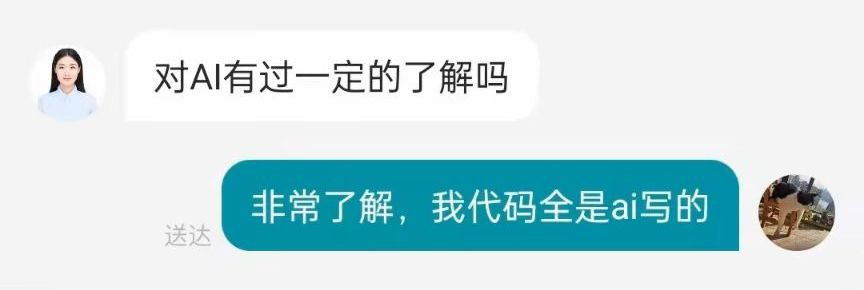
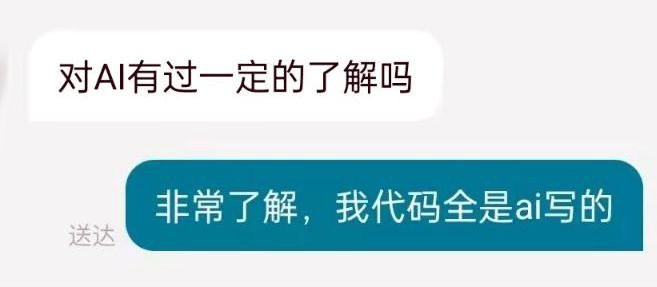
logout info get finished

Changed region(s): [[0.0913, 0.5296, 1.0, 0.892], [0.0304, 0.1672, 0.6393, 0.4181]]

diff --git a/src/menu.c b/src/menu.c
@@ -1,14 +1,13 @@
-#include <stdio.h>
-#include <stdlib.h>
-#include <string.h>
 #include"../head/card_service.h"
 #include"../head/admin.h"
+#include"../head/billing_service.h"
 // extern Card acard[100];
 // extern int card_count;
 extern Card* head;
 extern Card* lastnode;
 extern Admin three_admins[3];
 extern int admin_count;
+extern Loif* head_loif;
 void menu()
 {
     // 打印卡片信息
@@ -289,9 +288,8 @@ void menu()
             printf("使用时间为：%.2lf分钟\n", usage_time / 60.0);
             printf("消费金额为：%.2lf元\n", usage_amount);
             // 如果余额不足，提示用户充值
-            if (logout_index->balance < 0) 
+            while (logout_index->balance < 0) 
             {
-                printf("亲,我们这边一分钟10元呢,不是fuger记得注意时间\n");
                 printf("余额不足，请充值！\n");
                 printf("请输入充值金额<RMB>：");
                 double recharge_else;
@@ -300,18 +298,20 @@ void menu()
                 printf("充值成功！");
                 printf("当前余额为：%.2lf\n", logout_index->balance);
             }
-            while(logout_index->balance < 0)
-            {
-                printf("余额还是不够呢,要不要试试我们的贷款功能？\n");
-                printf("请输入贷款金额<RMB>：");
-                double recharge_else;
-                scanf("%lf", &recharge_else);
-                logout_index->balance += recharge_else;
-                printf("贷款成功！");
-                printf("当前余额为：%.2lf\n", logout_index->balance);
-                printf("当前利息为：1.6%%");
-            }
-            free(login_time); // 释放内存
+            // 存档下机信息
+            Loif logout_info;
+            strcpy(logout_info.cardname, logout_index->aname);
+            strcpy(logout_info.start_time, login_time);
+            logout_info.last_time_t = now_logout;
+            logout_info.amount = usage_amount;
+            logout_info.balance = logout_index->balance;
+            strftime(logout_info.last_time, sizeof(logout_info.last_time), "%Y-%m-%d %H:%M:%S", tm_info_logout);
+            // 将下机信息写入文件
+            write_logout_info("user_data/logout.txt", &logout_info);
+            // 将下机信息添加到链表
+            add_info_to_loif(head_loif, &logout_info);
+            // 释放内存
+            free(login_time); 
             printf("请在前台领取消费明细单！\n");   
             printf("下机成功\n");
             break;
@@ -408,12 +408,57 @@ void menu()
             }
             printf("-------------查询统计------------\n");
             printf("请输入0查询消费记录，输入1统计总营业额：");
-            int stat_choice;
+            int stat_choice=-1;
             scanf("%d", &stat_choice);
-            if (stat_choice)
-                printf("总营业额为：%lf\n", 1000.00);
+            if (stat_choice==1)
+            {
+
+            }
+            else if(stat_choice==0)
+            {
+                printf("-------------查询消费记录------------\n");
+                printf("请输入你要查询的卡号<长度为1-18>：");
+                char stat_card[30];
+                scanf("%s", stat_card);
+                if(strlen(stat_card) > 18)
+                {
+                    printf("error: 卡号长度超过18位 ");
+                    printf("请重新输入\n");
+                    break;
+                }
+                LoifMatches matches = find_loif_by_cardname(head_loif, stat_card);
+                if (matches.count == 0) 
+                {
+                    printf("没有找到相关消费记录！\n");
+                    free(matches.matches);
+                    break;
+                }
+                printf("找到 %d 条消费记录：\n", matches.count);
+                printf("卡号\t上机时间\t\t下机时间\t消费金额\t余额\n");
+                for (int i = 0; i < matches.count; i++) 
+                {
+                    printf("%s\t%s\t%s\t%.2lf\t%.2lf\n",
+                        matches.matches[i]->cardname,
+                        matches.matches[i]->start_time,
+                        matches.matches[i]->last_time,
+                        matches.matches[i]->amount,
+                        matches.matches[i]->balance);
+                }
+                free(matches.matches); // 释放匹配结果的内存
+                printf("请输入查询的时间段<格式为YYYY-MM-DD>\n");
+                char start_date[20], end_date[20];
+                printf("开始时间：");
+                scanf("%s", start_date);
+                printf("结束时间：");
+                scanf("%s", end_date);
+                // 时间段查询
+                
+            }
             else
-                printf("消费记录为：%d\n",1);
+            {
+                printf("输入错误，请重新输入0或1：");
+                break;
+            }
             break;
         case 8:
             printf("-------------注销卡------------\n");

diff --git a/src/billing_service.c b/src/billing_service.c
@@ -1,0 +1,83 @@
+#include"../head/billing_service.h"
+Loif*head_loif,*move_loif;
+int initLoifList(Loif **head_, Loif **move_loif)
+{
+    *head_ = (Loif *)malloc(sizeof(Loif)); // 分配内存
+    if (*head_ == NULL) 
+    {
+        printf("内存分配失败\n");
+        return 0;
+    }
+    (*head_)->next = NULL; // 初始化链表头
+    *move_loif = *head_; // 设置移动指针
+    // 初始化链表头的其他字段
+    strcpy((*head_)->cardname, "head"); // 初始化卡号为空
+    strcpy((*head_)->start_time, "0000-00-00 00:00:00"); // 初始化上机时间为空
+    (*head_)->last_time_t = 0; // 初始化上次使用时间为0
+    (*head_)->amount = 0.0; // 初始化消费金额为0
+    (*head_)->balance = 0.0; // 初始化余额为0
+    (*head_)->next = NULL; // 确保链表头的下一个指针为空
+    return 1; // 成功初始化
+}
+LoifMatches find_loif_by_cardname(Loif *head, const char *query_card) {
+    LoifMatches result = {NULL, 0};
+    Loif** matches = (Loif**)malloc(sizeof(Loif*) * MAX_MATCHES);
+    if (matches == NULL) 
+    {
+        perror("内存分配失败");
+        return result; // 返回空的 LoifMatches
+    }
+
+    int match_count = 0;
+    while (head != NULL) 
+    {
+        if (strcmp(head->cardname, query_card) == 0) 
+        {
+            if (match_count < MAX_MATCHES) 
+                matches[match_count++] = head; // 存储匹配的指针
+            else 
+            {
+                printf("超过最大匹配数量，忽略更多匹配项\n");
+                break; // 停止查找更多匹配项
+            }
+        }
+        head = head->next; // 移动到下一个节点
+    }
+    result.matches = matches;
+    result.count = match_count;
+    return result;
+}
+void freeloiflist(Loif*head)
+{
+    Loif *current = head;
+    Loif *nextNode;
+    while (current != NULL) 
+    {
+        nextNode = current->next; // 保存下一个节点
+        free(current); // 释放当前节点
+        current = nextNode; // 移动到下一个节点
+    }
+}
+void add_info_to_loif(Loif *head, const Loif *new_info) {
+    Loif *new_node = (Loif *)malloc(sizeof(Loif));
+    if (new_node == NULL) 
+    {
+        printf("内存分配失败\n");
+        return;
+    }
+    // 复制新信息到新节点
+    strcpy(new_node->cardname, new_info->cardname);
+    strcpy(new_node->start_time, new_info->start_time);
+    new_node->last_time_t = new_info->last_time_t;
+    new_node->amount = new_info->amount;
+    new_node->balance = new_info->balance;
+    new_node->next = NULL;
+
+    // 将新节点添加到链表末尾
+    Loif *current = head;
+    while (current->next != NULL) 
+    {
+        current = current->next;
+    }
+    current->next = new_node; // 将新节点链接到链表末尾
+}

diff --git a/src/billing_file.c b/src/billing_file.c
@@ -1,0 +1,59 @@
+#include"../head/billing_service.h"
+
+void write_logout_info(const char *filename, const Loif *logout_info)
+{
+    FILE *fp = fopen("user_data/logout.txt", "a+");
+    if (fp == NULL)
+    {
+        printf("Error opening file!\n");
+        return;
+    }
+    fprintf(fp, "%s##%s##%s##%.2lf##%.2lf\n", 
+            logout_info->cardname, 
+            logout_info->start_time,
+            logout_info->last_time,
+            logout_info->amount, 
+            logout_info->balance);
+    fclose(fp);
+}
+Loif* read_logout_info()
+{
+    FILE *fp = fopen("user_data/logout.txt", "r");
+    if (fp == NULL)
+    {
+        printf("Error opening file!\n");
+        return NULL;
+    }
+    Loif *head = NULL, *tail = NULL;
+    char buffer[256];
+    
+    while (fgets(buffer, sizeof(buffer), fp) != NULL)
+    {
+        Loif *new_node = (Loif *)malloc(sizeof(Loif));
+        if (sscanf(buffer, "%[^#]##%[^#]##%lf##%lf", 
+                   new_node->cardname, 
+                   new_node->start_time, 
+                   &new_node->amount, 
+                   &new_node->balance) == 4)
+        {
+            new_node->next = NULL;
+            if (head == NULL)
+            {
+                head = new_node;
+                tail = new_node;
+            }
+            else
+            {
+                tail->next = new_node;
+                tail = new_node;
+            }
+        }
+        else
+        {
+            free(new_node);
+            printf("Error parsing logout data: %s\n", buffer);
+        }
+    }
+    fclose(fp);
+    return head;
+}

diff --git a/head/billing_service.h b/head/billing_service.h
@@ -1,0 +1,28 @@
+#include <time.h>
+#ifndef BILLING_SERVICE_H
+#define BILLING_SERVICE_H
+#define MAX_MATCHES 100
+#include <stdio.h>
+#include <stdlib.h>
+#include <string.h>
+typedef struct Logout_info
+{
+    char cardname[30];
+    char start_time[80];//上机时间
+    time_t last_time_t;
+    char last_time[80];//下机时间
+    double amount;//消费金额
+    double balance;//余额
+    struct Logout_info *next; // 链表指针
+} Loif;
+typedef struct {
+    Loif** matches;
+    int count;
+} LoifMatches;//for billing search
+void write_logout_info(const char *filename, const Loif *logout_info);
+int initLoifList(Loif **head_, Loif **move_loif);
+void freeloiflist(Loif *head);
+Loif* read_logout_info();
+LoifMatches find_loif_by_cardname(Loif *head, const char *query_card);
+void add_info_to_loif(Loif *head, const Loif *new_info);
+#endif // BILLING_SERVICE_H

diff --git a/src/main.c b/src/main.c
@@ -1,9 +1,12 @@
 #include "../head/menu.h"
 extern Card* head;
 extern Card* lastnode;
+extern Loif* head_loif;
+extern Loif* move_loif;
 int main()
 {
-    
+    //初始化链表
+    initLoifList(&head_loif, &move_loif);
     initCardList(&head,&lastnode);
     //二进制读取
     // binreadCardlist();
@@ -11,7 +14,11 @@ int main()
     readCard();
     //读取管理员信息
     readAdmin();
+    //读取消费信息
+    read_logout_info();
+    //启动菜单
     menu();
-
+    //释放链表
     freelist(head);
+    freeloiflist(head_loif);
 }

diff --git a/src/card_service.c b/src/card_service.c
@@ -1,7 +1,5 @@
 #include"../head/card_service.h"
 #include<string.h>
-#include<stdio.h>
-#include<stdlib.h>
 #include<ctype.h> // 用于字符分类函数
 // Card acard[100];
 // int card_count = 0;

diff --git a/head/card_service.h b/head/card_service.h
@@ -1,6 +1,8 @@
 #define max_cardname 19
 #define max_cardpwd 9
 #include<time.h>
+#include <stdio.h>
+#include <stdlib.h>
 typedef struct Card
 {
     char aname[19];

diff --git a/src/card_file.c b/src/card_file.c
@@ -1,6 +1,4 @@
 #include"../head/card_service.h"
-#include <stdio.h>
-#include <stdlib.h>
 // extern Card acard[100];
 // extern int card_count;
 extern Card* head;

diff --git a/head/menu.h b/head/menu.h
@@ -1,3 +1,4 @@
 #include"../head/card_service.h"
 #include"../head/admin.h"
+#include"../head/billing_service.h"
 void menu();
